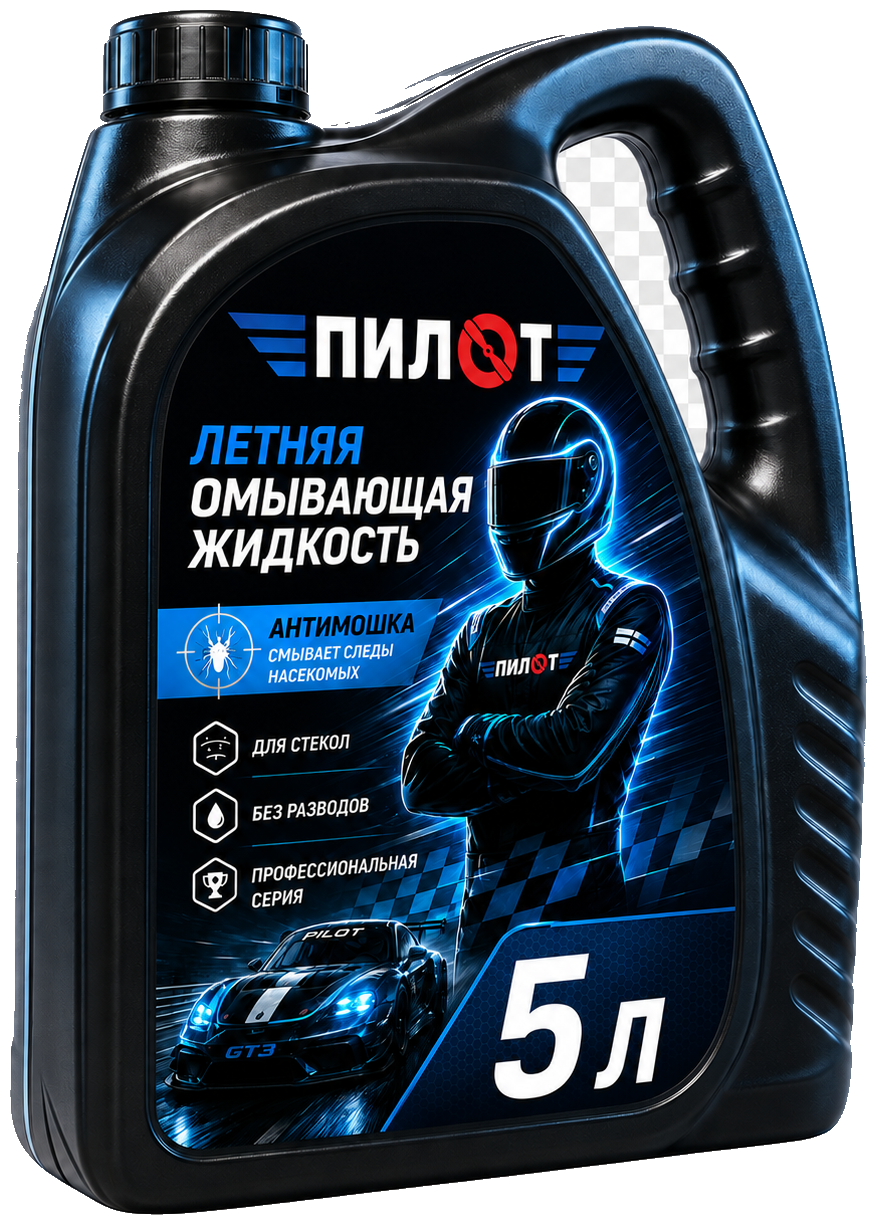
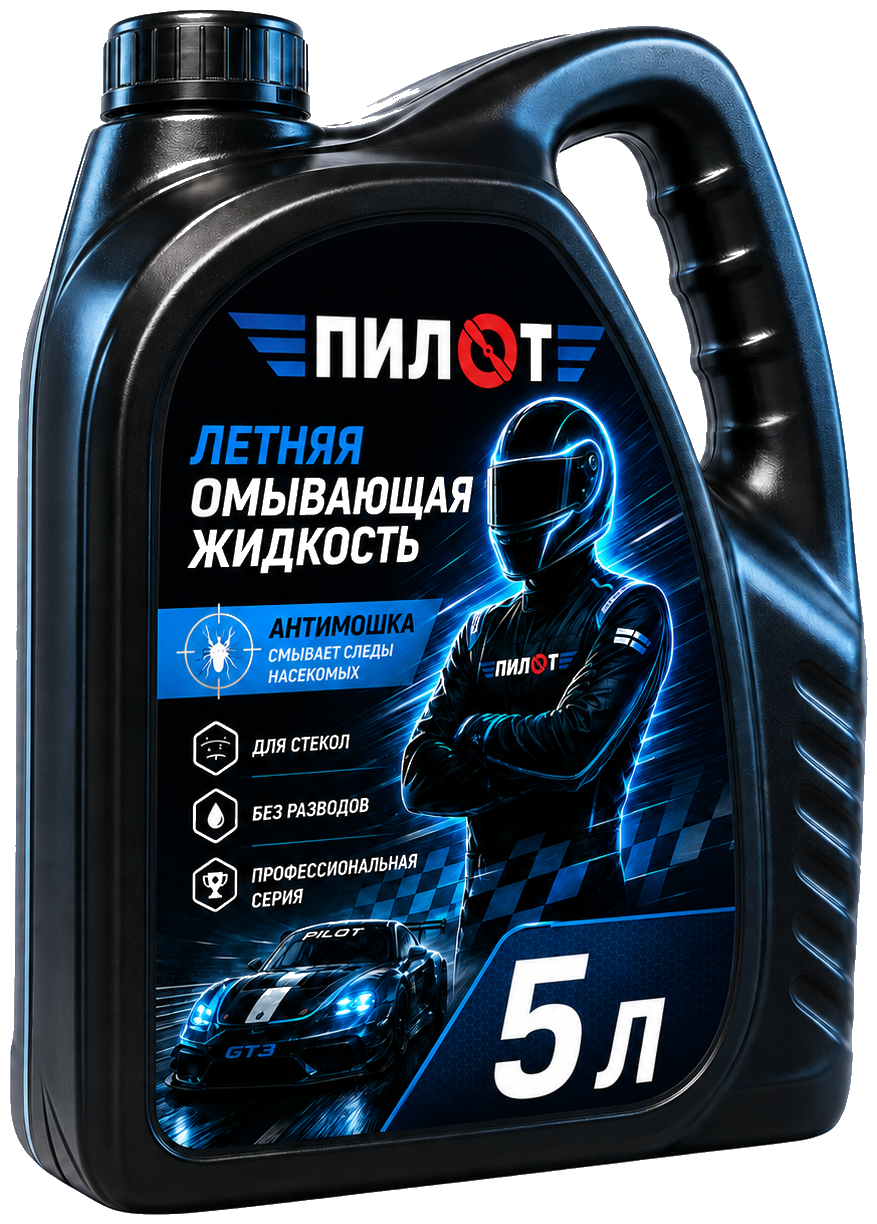
Чистка шахматки в ручке канистры + мобильная адаптация
- canister/bottle-clean: компонентное удаление шахматки (внешний фон + ручка),
  сплошной белый текст этикетки сохранён.
- @user 720px: видео-hero — текст вниз, кадр сдвинут (канистра видна);
  статичные — продукт стопкой над текстом; убран гигантский vol-badge.

diff --git a/css/style.css b/css/style.css
@@ -182,3 +182,32 @@ footer a:hover{color:var(--blue)}
 .product-shot.center{animation:floaty-c 5.5s ease-in-out infinite}
 @keyframes floaty-c{0%,100%{transform:translateX(50%) translateY(0)}50%{transform:translateX(50%) translateY(-16px)}}
 @media(max-width:820px){.product-shot{height:60vh;right:-4vw;opacity:.85}}
+
+/* ---------- mobile ---------- */
+@media(max-width:720px){
+  header .bar{padding:12px 6vw}
+  h2.sec{font-size:clamp(28px,8vw,40px)}
+  .cue{display:none}
+
+  /* video hero (index/b2b): product lives inside the video — show it up top, text bottom */
+  .hero{align-items:flex-end;padding-bottom:7vh}
+  .hero-media video,.hero-media img{object-position:62% center}
+  .hero-media::after{background:linear-gradient(to top,var(--bg) 16%,rgba(5,8,15,.45) 52%,rgba(5,8,15,.18) 100%)}
+  .hero .vol-badge{display:none}
+  .hero .sub,.phero .sub{max-width:none}
+
+  /* product hero (studio/track): stack product above the text */
+  .phero{flex-direction:column;justify-content:flex-end;padding-bottom:6vh}
+  .phero .wrap{order:2}
+  .phero-bg::after{background:linear-gradient(to top,var(--bg) 14%,rgba(5,8,15,.5) 58%,rgba(5,8,15,.18) 100%)}
+  .product-shot{position:relative;order:1;right:auto;bottom:auto;height:38vh;max-height:none;
+    margin:0 auto 14px;transform:none;animation:floaty 5.5s ease-in-out infinite}
+  .product-shot.center{right:auto;transform:none;animation:floaty 5.5s ease-in-out infinite}
+  .bottle-wrap{position:relative;order:1;right:auto;height:auto;margin:0 auto 14px}
+  .bottle-wrap img.main{height:36vh}
+  .bottle-wrap img.refl{display:none}
+
+  /* concept4 hero */
+  .c4 .layer video,.c4 .layer img{object-position:60% center}
+  .c4 .phase{max-width:none}
+}

diff --git a/assets/_decheck2.py b/assets/_decheck2.py
@@ -1,0 +1,64 @@
+import sys
+from collections import deque
+import numpy as np
+from PIL import Image
+
+def clean(inp, outp):
+    img = Image.open(inp).convert("RGBA")
+    a = np.array(img)
+    h, w = a.shape[:2]
+    r = a[:, :, 0].astype(int); g = a[:, :, 1].astype(int); b = a[:, :, 2].astype(int)
+    mx = np.maximum(np.maximum(r, g), b)
+    mn = np.minimum(np.minimum(r, g), b)
+    sat = mx - mn
+    cand = (sat <= 30) & (mx >= 190)        # light, low-saturation (checker or white text)
+    gray = cand & (mx >= 205) & (mx <= 243)  # the gray checker squares
+    white = cand & (mx >= 248)               # white squares / solid white
+
+    visited = np.zeros((h, w), dtype=bool)
+    remove = np.zeros((h, w), dtype=bool)
+    candf = cand  # local ref
+
+    for sy in range(h):
+        row = candf[sy]
+        for sx in range(w):
+            if not row[sx] or visited[sy, sx]:
+                continue
+            # BFS this component
+            comp = []
+            dq = deque([(sy, sx)])
+            visited[sy, sx] = True
+            gcount = wcount = 0
+            touches_border = False
+            while dq:
+                y, x = dq.popleft()
+                comp.append((y, x))
+                if gray[y, x]: gcount += 1
+                if white[y, x]: wcount += 1
+                if x == 0 or y == 0 or x == w-1 or y == h-1:
+                    touches_border = True
+                for ny, nx in ((y+1,x),(y-1,x),(y,x+1),(y,x-1)):
+                    if 0 <= ny < h and 0 <= nx < w and not visited[ny, nx] and candf[ny, nx]:
+                        visited[ny, nx] = True
+                        dq.append((ny, nx))
+            area = len(comp)
+            gfrac = gcount / area
+            wfrac = wcount / area
+            is_checker = (gfrac > 0.12 and wfrac > 0.12)  # alternating gray+white => checkerboard
+            if touches_border or is_checker:
+                for (y, x) in comp:
+                    remove[y, x] = True
+
+    a[:, :, 3] = np.where(remove, 0, a[:, :, 3])
+
+    ys, xs = np.where(a[:, :, 3] > 0)
+    pad = 10
+    y0, y1 = max(0, ys.min()-pad), min(h, ys.max()+pad)
+    x0, x1 = max(0, xs.min()-pad), min(w, xs.max()+pad)
+    out = Image.fromarray(a[y0:y1, x0:x1])
+    out.save(outp)
+    print(outp, "size", out.size, "removed%", round(100*remove.sum()/(h*w),1))
+
+base = sys.argv[1]
+clean(base + r"\canister.png", base + r"\canister-clean.png")
+clean(base + r"\bottle.png",   base + r"\bottle-clean.png")